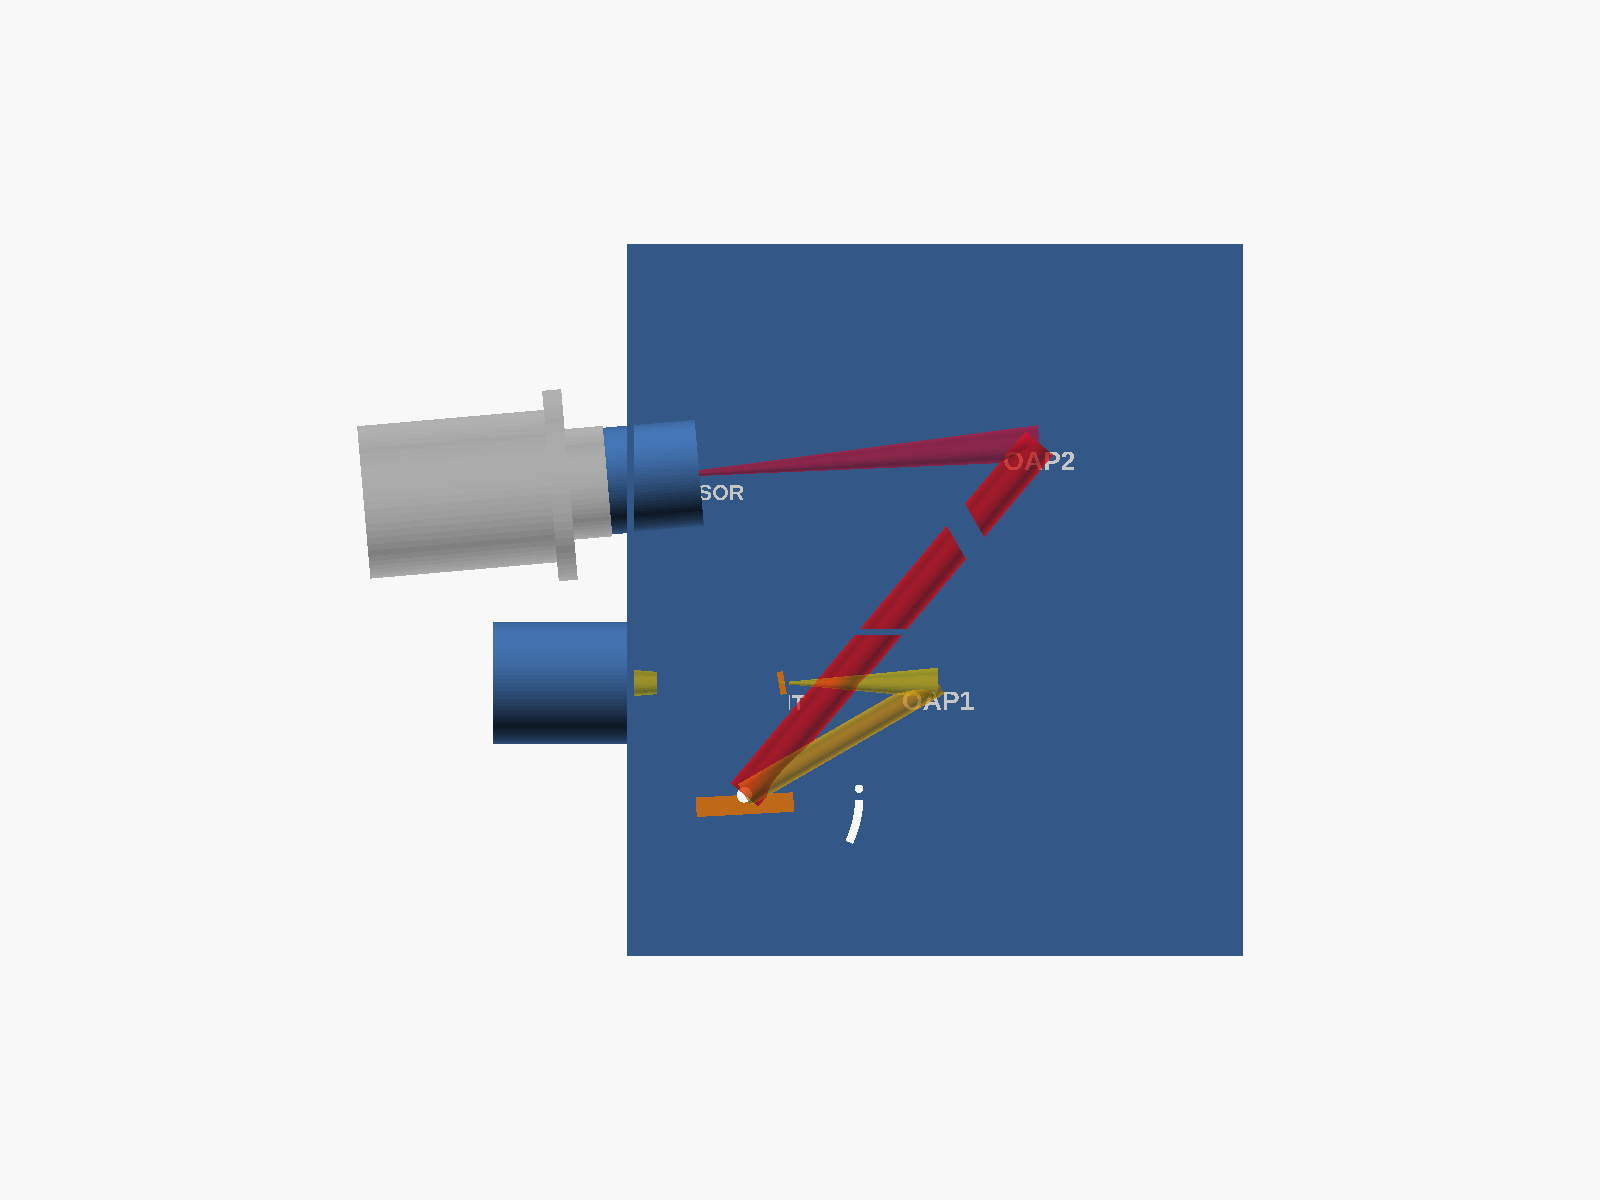
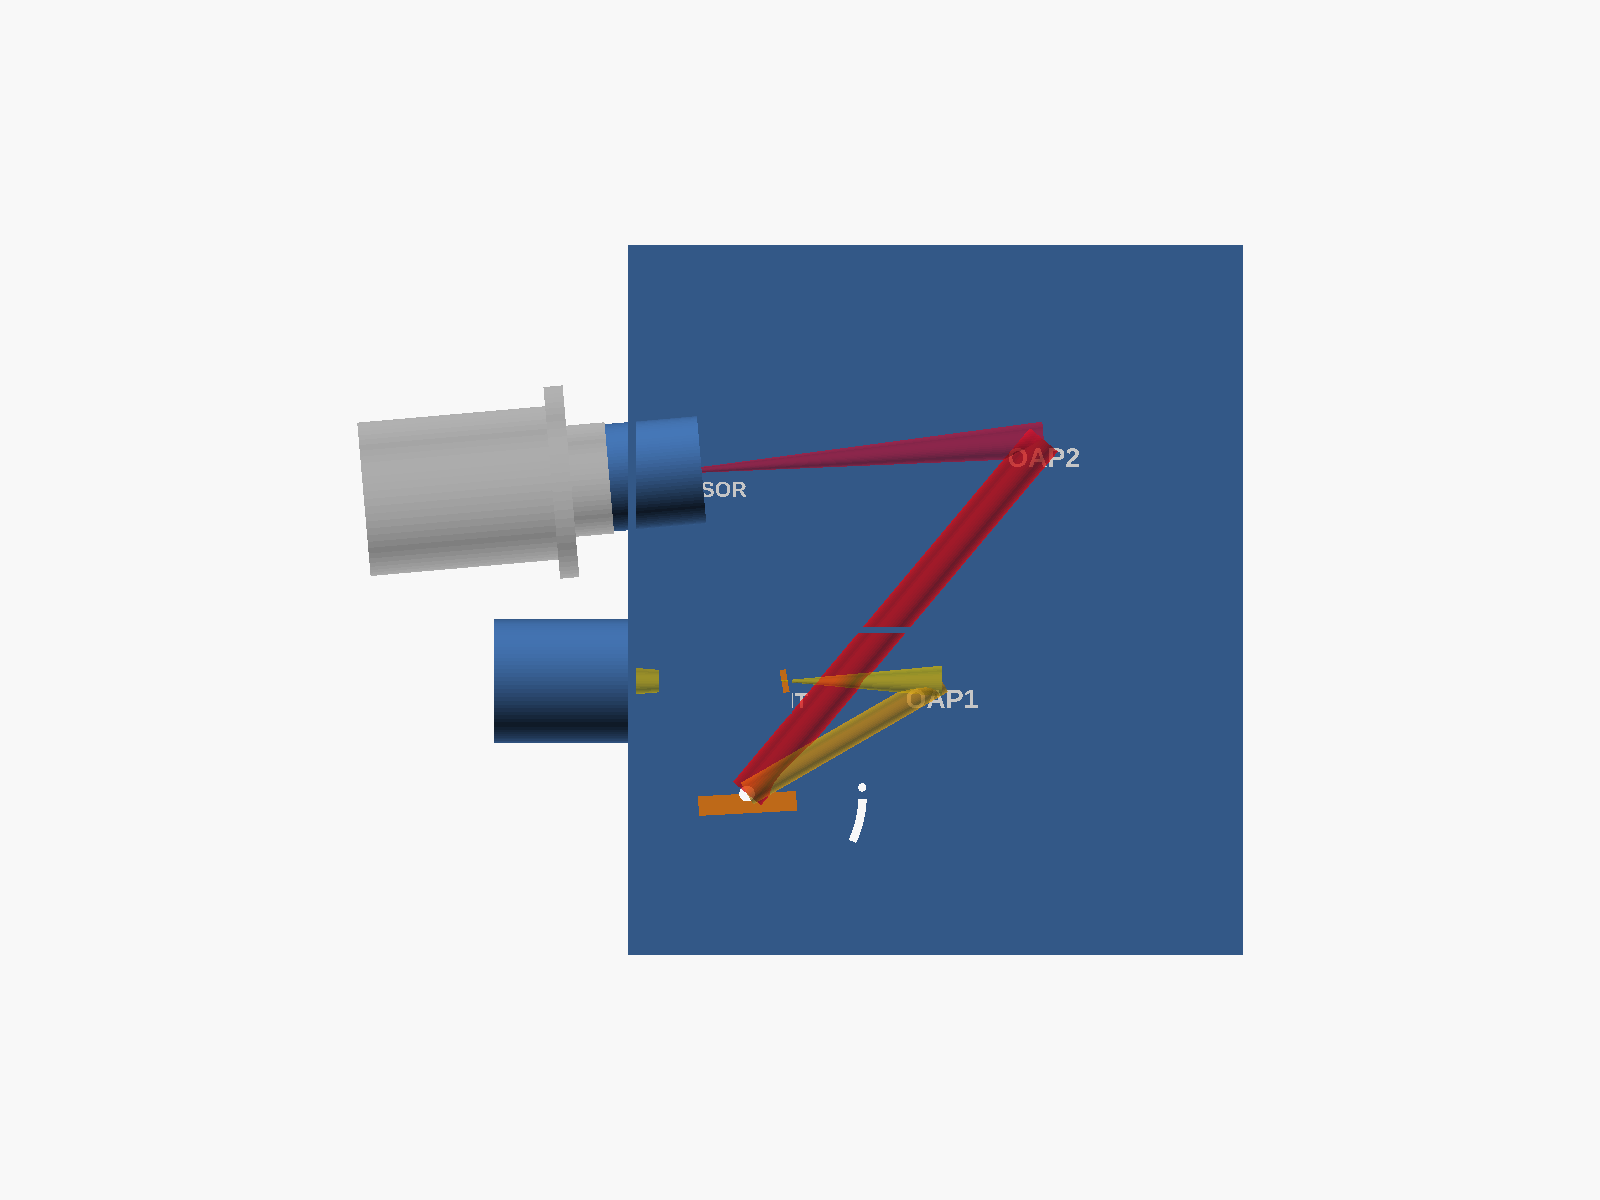
Fix beam-through-OAP1-slab collision (user-caught): shift slab+mount +34mm
The diffracted beam crosses the OAP1 face plane 59mm off-center — inside
the old ±79mm slab span. Slab and KM bolt pattern shift +34mm along the
face tangent (slabW 158->150); mirror stays at the optical point via
mirrorOffX=-34 on the OAP1 KM platform. body_export.py now guards this
clearance (+8.5mm) and fails fatally on regression.

diff --git a/design/body_export.py b/design/body_export.py
@@ -64,6 +64,33 @@ lines.append("gratNormAngs = [" +
 lines.append("// tuning detents: " +
              ", ".join(f"{l}={a:.1f}" for (l, a) in tunings))
 
+# ---- clearance guard: diffracted beam vs OAP1 mount slab ----
+import sys
+SLABW, SLAB1SHIFT, BEAM_D = 150.0, 34.0, 19.0
+f1 = (b(d.C1)[0] - 45.0 * math.cos(math.radians(ang(d.c1))),
+      b(d.C1)[1] - 45.0 * math.sin(math.radians(ang(d.c1))))
+ta = math.radians(ang(d.c1) + 90)
+tg, gp = (math.cos(ta), math.sin(ta)), b(d.G)
+c2b = (math.cos(math.radians(ang(d.c2))), math.sin(math.radians(ang(d.c2))))
+# solve gp + t*c2b = f1 + s*tg (face-plane crossing)
+det = c2b[0] * (-tg[1]) - c2b[1] * (-tg[0])
+rx, ry = f1[0] - gp[0], f1[1] - gp[1]
+t = (rx * (-tg[1]) - ry * (-tg[0])) / det
+s = (c2b[0] * ry - c2b[1] * rx) / det
+lo, hi = SLAB1SHIFT - SLABW / 2, SLAB1SHIFT + SLABW / 2
+if s < lo:
+    marg = (lo - s) - BEAM_D / 2          # clear below the slab edge
+elif s > hi:
+    marg = (s - hi) - BEAM_D / 2          # clear beyond the far edge
+else:
+    marg = -min(s - lo, hi - s)           # inside the slab: collision
+print(f"// GUARD diffracted beam crosses OAP1 slab plane at s={s:.1f} "
+      f"(slab spans [{lo:.0f},{hi:.0f}]) -> clearance {marg:.1f} mm")
+if 0 <= marg < 5:
+    print("// WARNING: <5 mm beam-to-slab clearance", file=sys.stderr)
+if marg < 0:
+    raise SystemExit("FATAL: diffracted beam intersects the OAP1 slab")
+
 with open("body_geom.scad", "w") as f:
     f.write("\n".join(lines) + "\n")
 print("\n".join(lines))

diff --git a/design/BODY.md b/design/BODY.md
@@ -16,6 +16,12 @@ raytrace.
 - Two angled wall slabs carry the printed kinematic bases; face normals
   are the mirror substrate axes; M5 heat-set pilot holes match the KM
   base bolt triangle (kmHole = 64 mm half-pitch).
+- OAP1 slab + KM mount are SHIFTED +34 mm along the face tangent: the
+  diffracted beam crosses the OAP1 face plane 59 mm off-center and would
+  otherwise pass through the plate (user-caught). The mirror stays at
+  the optical point -> print the OAP1 KM platform with mirrorOffX = -34.
+  body_export.py guards this clearance on every run (currently +8.5 mm)
+  and fails fatally if a geometry change re-introduces the collision.
 - `mirrorStack` (45 mm default) = optical face -> wall face. MEASURE the
   real stack (substrate + backing plate + KM mount + gap) before printing.
 - Slit: cartridge pocket in the tower at the origin, tilted `slitTilt`

diff --git a/design/mounts/README.md b/design/mounts/README.md
@@ -52,6 +52,13 @@ A controlled 1/20 turn ≈ 1.0 / 0.36 arcmin — inside budget either way;
 - The cone and vee print facing up on the base plate — no supports needed
   at these shallow depths. Ream the pivot pocket to a snug ball fit.
 
+## Per-mirror print settings
+
+- OAP2: defaults (mirrorOffX = 0).
+- OAP1: platform printed with **mirrorOffX = -34** — the body's OAP1 slab
+  is shifted +34 mm along its face so the diffracted beam clears the
+  plate edge; the offset keeps the mirror at the optical position.
+
 ## Before printing: measure two things
 
 1. The actual bolt pattern on your Edmund mirror backs (set `mirrorBCD`,
